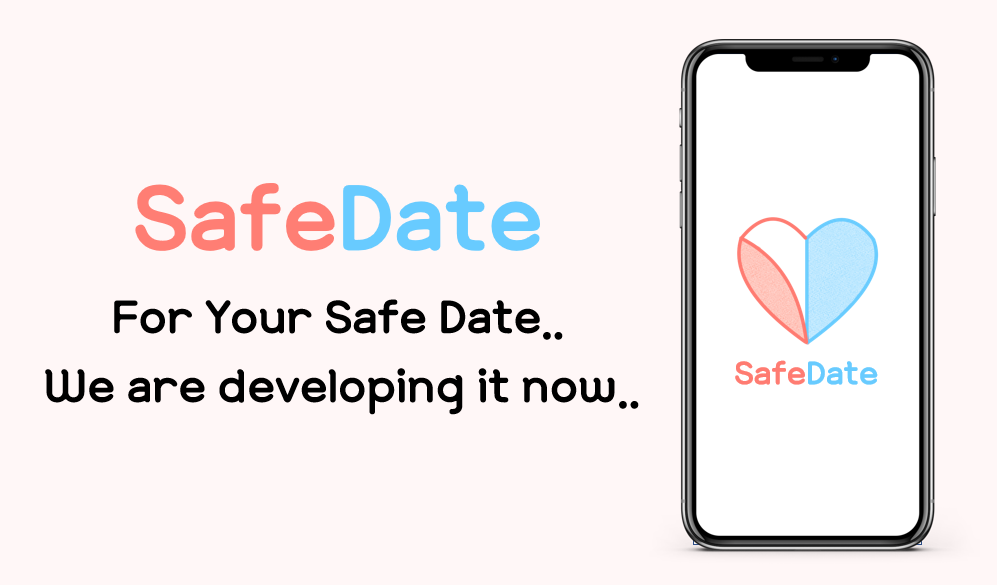
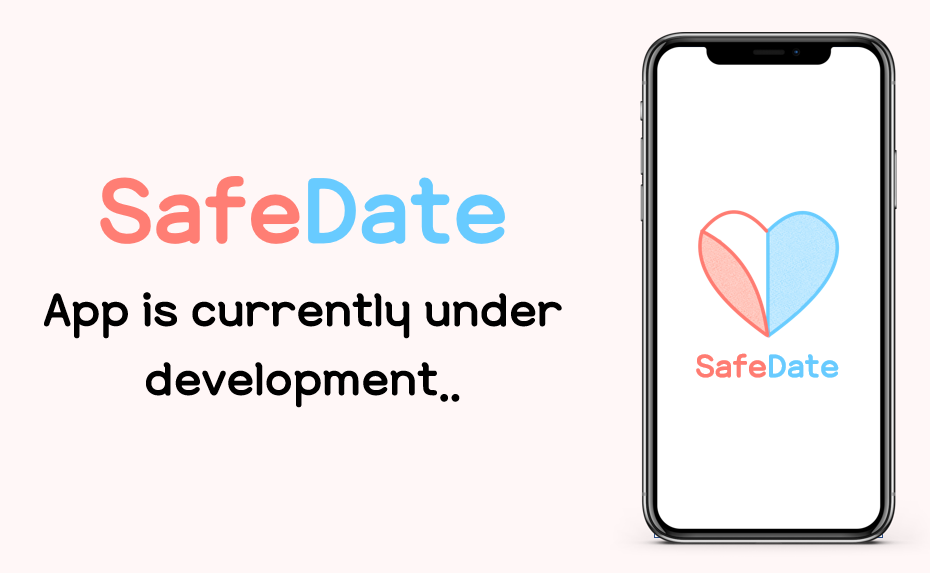
change some files to include the developing

Changed region(s): [[0.0312, 0.0297, 0.9667, 0.9494], [0.0935, 0.2967, 0.5613, 0.445], [0.0312, 0.5044, 0.5925, 0.5934]]

diff --git a/en/app_developing.html b/en/app_developing.html
@@ -10,7 +10,7 @@
     <link rel='stylesheet' href='grid_style.css'/>
   </head>
   <body>
-    <nav class="navbar navbar-expand-lg navbar-dark bg-dark">
+    <nav class="navbar navbar-expand-lg navbar-dark bg-primary">
         <a class="navbar-brand" href="index.html">SafeDate</a>
         <button class="navbar-toggler" type="button" data-toggle="collapse" data-target="#navbarSupportedContent" aria-controls="navbarSupportedContent" aria-expanded="false" aria-label="Toggle navigation">
             <span class="navbar-toggler-icon"></span>
@@ -20,68 +20,68 @@
             <ul class="navbar-nav mr-auto">
                 <li class="nav-item dropdown">
                     <a class="nav-link dropdown-toggle" href="safetips/safetips.html" id="navbarDropdown" role="button" data-toggle="dropdown" aria-haspopup="true" aria-expanded="false">
-                        안전한 데이트를 위한 팁
+                        Tips for a Safe Date
                     </a>
                     <div class="dropdown-menu" aria-labelledby="navbarDropdown">
-                        <a class="dropdown-item" href="safetips/dangerousmen.html">위험한 남자의 13가지 특징</a>
+                        <a class="dropdown-item" href="safetips/dangerousmen.html">13 Features of Dangerous Men</a>
                         <div class="dropdown-divider"></div>
-                        <a class="dropdown-item" href="safetips/datingplaces.html">옳바른 데이트 장소 선정 방법</a>
+                        <a class="dropdown-item" href="safetips/datingplaces.html">How to choose the right place to date</a>
                         <div class="dropdown-divider"></div>
-                        <a class="dropdown-item" href="safetips/eighttipsforsafedate.html">안전한 데이트를 위한 8가지 방법</a>
+                        <a class="dropdown-item" href="safetips/eighttipsforsafedate.html">Eight Ways to Have a Safe Date</a>
                     </div>
                 </li>
                 <li class="nav-item dropdown">
                     <a class="nav-link dropdown-toggle" href="indanger/sevenways.html" id="navbarDropdown" role="button" data-toggle="dropdown" aria-haspopup="true" aria-expanded="false">
-                        위험에 처했다면
+                        In Danger
                     </a>
                     <div class="dropdown-menu" aria-labelledby="navbarDropdown">
-                        <a class="dropdown-item" href="indanger/sevenways.html">7가지 대처방법</a>
+                        <a class="dropdown-item" href="indanger/sevenways.html">Seven different ways to survive</a>
                     </div>
                 </li>
                 <li class="nav-item dropdown">
                     <a class="nav-link dropdown-toggle" href="gotharmed/gotharmed.html" id="navbarDropdown" role="button" data-toggle="dropdown" aria-haspopup="true" aria-expanded="false">
-                        (성)폭력을 당했다면
+                        If you've been assaulted (sexually)
                     </a>
                     <div class="dropdown-menu" aria-labelledby="navbarDropdown">
-                        <a class="dropdown-item" href="gotharmed/ninethingstodo.html">그 일이 일어난 뒤 9가지 대처방법</a>
+                        <a class="dropdown-item" href="gotharmed/ninethingstodo.html">Nine ways to deal with it</a>
                         <div class="dropdown-divider"></div>
-                        <a class="dropdown-item" href="gotharmed/mostimportant.html">무엇보다도 가장 중요한 것</a>
+                        <a class="dropdown-item" href="gotharmed/mostimportant.html">Th most important thing</a>
                     </div>
                 </li>
                 <li class="nav-item dropdown">
                     <a class="nav-link dropdown-toggle" href="toattackers/toattackers.html" id="navbarDropdown" role="button" data-toggle="dropdown" aria-haspopup="true" aria-expanded="false">
-                        후유증들
+                        Aftereffects
                     </a>
                     <div class="dropdown-menu" aria-labelledby="navbarDropdown">
-                        <a class="dropdown-item" href="toattackers/self-esteem-effect.html">성폭력이 자존감에 어떤 영향을 미치는가</a>
-                        <a class="dropdown-item" href="toattackers/emotion-effect.html">성폭력이 감정에 어떤 영향을 주는가</a>
-                        <a class="dropdown-item" href="toattackers/body-effect.html">성폭력이 몸에 어떤 영향을 주는가</a>
-                        <a class="dropdown-item" href="toattackers/friendship-effect.html">성폭력이 친밀성에 어떤 영향을 주는가</a>
-                        <a class="dropdown-item" href="toattackers/parent-effect.html">성폭력이 부모역할에 어떤 영향을 주는가</a>
-                        <a class="dropdown-item" href="toattackers/sex-effect.html">성폭력이 성에 어떤 영향을 주는가</a>
-                        <a class="dropdown-item" href="toattackers/familyrelationship-effect.html">성폭력이 가족관계에 어떤 영향을 주는가</a>
+                        <a class="dropdown-item" href="toattackers/self-esteem-effect.html">How Sexual Violence Affects One's Self Esteem</a>
+                        <a class="dropdown-item" href="toattackers/emotion-effect.html">How Sexual Violence Affects Emotions</a>
+                        <a class="dropdown-item" href="toattackers/body-effect.html">How Sexual Violence Affects the Body</a>
+                        <a class="dropdown-item" href="toattackers/friendship-effect.html">How Sexual Violence Affects Intimacy</a>
+                        <a class="dropdown-item" href="toattackers/parent-effect.html">How Sexual Violence Affects Parental Role</a>
+                        <a class="dropdown-item" href="toattackers/sex-effect.html">How Sexual Violence Affects Sex</a>
+                        <a class="dropdown-item" href="toattackers/familyrelationship-effect.html">How Sexual Violence Affects Family Relations</a>
                         <div class="dropdown-divider"></div>
-                        <a class="dropdown-item" href="toattackers/personal-message.html">개인적인 메세지</a>
+                        <a class="dropdown-item" href="toattackers/personal-message.html">Personal Message</a>
                     </div>
                 </li>
                 <li class="nav-item dropdown">
                     <a class="nav-link dropdown-toggle" href="forvictims/forvictims.html" id="navbarDropdown" role="button" data-toggle="dropdown" aria-haspopup="true" aria-expanded="false">
-                        피해자들에게
+                        To the victims
                     </a>
                     <div class="dropdown-menu" aria-labelledby="navbarDropdown">
-                        <a class="dropdown-item" href="forvictims/respect-what-you-did.html">살아남기 위해 당신이 해야만 했던 일을 존중하기</a>
-                        <a class="dropdown-item" href="forvictims/self-defense-strategies.html">자기 방어 전략</a>
+                        <a class="dropdown-item" href="forvictims/respect-what-you-did.html">Respect What You had to do Survive</a>
+                        <a class="dropdown-item" href="forvictims/self-defense-strategies.html">Self-defense Strategies</a>
                         <div class="dropdown-divider"></div>
-                        <a class="dropdown-item" href="forvictims/you-can-change.html">당신은 변화할 수 있다</a>
-                        <a class="dropdown-item" href="forvictims/surviving-skills.html">치유를 위한 생존 기술</a>
-                        <a class="dropdown-item" href="forvictims/suicide-thought.html">자살이 생각난다면</a>
+                        <a class="dropdown-item" href="forvictims/you-can-change.html">You can change</a>
+                        <a class="dropdown-item" href="forvictims/surviving-skills.html">Survival Techniques for Healing</a>
+                        <a class="dropdown-item" href="forvictims/suicide-thought.html">If you think of Suicide</a>
                         <div class="dropdown-divider"></div>
-                        <a class="dropdown-item" href="forvictims/personal-message.html">개인적인 메세지</a>
+                        <a class="dropdown-item" href="forvictims/personal-message.html">Perosnal Message</a>
                     </div>
                 </li>
             </ul>
             <form class="form-inline my-2 my-lg-0">
-                <a style="color: white;"  href = "en/index.html"> EN/KOR </a>
+                <a style="color: white;"  href = "../index.html"> EN/KOR </a>
             </form>
         </div>
     </nav>
@@ -91,81 +91,81 @@
     
     <div class = "wrapper_text">
         <div class = "editor">
-            <h3>아직 SafeDate 어플은 개발중에 있어요.</h3><br>
+            <h3>SafeDate app is currently under development.</h3><br>
             <p>
-                <h4>SafeDate는 여러분의 후원을 통해 개발될 수 있어요.</h4><br>
-                현재 개발자가 열심히 만들고 있습니다.<br><br>
-                향후 개발 일정은 다음과 같습니다.<br><br>
-                <h4>개발 일정:</h4>
-                - 2021년 10월 24일까지: 웹페이지 개선 (한국어, 영어) <br><br>
-                - 2021년 12월 24일까지: 안드로이드 앱 개발 (한국어, 영어) <br><br>
-                - 2022년 2월 24일까지: iOS 앱 개발 (한국어, 영어) <br><br>
-                - 2022년 3월 1일까지: 앱 배포 및 베타 테스트 (한국어, 영어) <br><br>
-                - 2022년 3월 8일 - 세계 여성의 날: 세이프 데이트 앱 <strong>구글플레이스토어</strong>와 <strong>앱스토어</strong>에 출시<br><br>
-                - 2022년 8월말까지: 세계 다양한 언어(스페인어, 프랑스어, 일본어, 중국어 등)로 출시 <br><br>
-                전세계가 범죄로부터 안전해지는 날이 올 수 있게 후원해주시겠어요? :) <br><br>
-                함께라면 불가능한 일은 없어요! <br><br>
-                - 세이프데이트 올림 <br><br>
+                <h4>SafeDate can be developed through your sponsorship.</h4><br>
+                Currently, developers are working hard on it.<br><br>
+                The future development schedule is as follows.<br><br>
+                <h4>Development schedule:</h4><br>
+                - Until October 24, 2021: Web page improvement (English, Korean) <br><br>
+                - Until December 24, 2021: Android App Development (English, Korean) <br><br>
+                - Until February 24, 2022: iOS App Development (English, Korean) <br><br>
+                - Until March 1, 2022: App distribution and beta test (English, Korean) <br><br>
+                - March 8, 2022 - World Women's Day: Safe Date App <strong>Released on Google Play Store</strong> and <strong> App Store</strong><br><br>
+                - Until the end of August 2022: Launched in various languages around the world (Spanish, French, Japanese, Chinese, etc.) <br><br>
+                Can you sponsor us to make the world to be safe from crimes? :) <br><br>
+                Nothing is impossible when we're together! <br><br>
+                - From SafeDate <br><br>
             </p>
                 
         </div>
     </div>
-
+   
     <div class = "wrapper">
         <div class = "grid_container">
             <div id="SafeTips">
-                <p>안전한 데이트 팁</p>
+                <p>Safe Date Tips</p>
             </div>
             <div id="SafeTipsText">
                 <a href = "safetips/safetips.html">
-                    위험한 남자들의 13가지 특징들 <br>
-                    옳바른 데이트 장소 선정 방법 <br>
-                    안전한 데이트를 위한 8가지 방법 <br>
-                    ..더 보기
+                    13 Features of Dangerous Men,
+                    How to Choose the Right Date Place,
+                    8 Ways to Have a Safe Date <br>
+                    ..To see more details
                 </a>
            </div>
            <div id= "InDangerText">
                <a href = "indanger/sevenways.html">
-                    7가지 대처 방법<br>
-                    ..더 보기
+                    7 Ways to Deal with it <br>
+                    ..To see more details
                 </a>
            </div>
            <div id = "InDanger">
-               <p>지금 데이트에서 본인이 위험하다면</p>
+               <p>If you're in danger on a date now</p>
            </div>
            <div id = "GotHarmed">
-               <p>데이트에서 어떤 식으로든 폭력을 당했다면</p>
+               <p>If you were assaulted in any way on a date</p>
            </div>
            <div id = "GotHarmedText">
                <a href = "gotharmed/gotharmed.html">
-                    그 일이 일어난 뒤 9가지 대처 방법<br>
-                    무엇보다도 가장 중요한 것<br>
-                    ..더 보기
+                    Nine Ways to Deal After That Happened.
+                    The most important thing above all.
+                    ..To see more details
                 </a>
            </div>
            <div id = "ToAttackers">
                <p>
-                   가해자들에게:<br> 
-                    "너희가 도대체 무슨 짓을 했는지 아니?"
+                   To perpetrators: <br> 
+                    "Do you know what the hell you've done?"
                </p>
            </div>
            <div id = "ToAttackersText">
                 <a href = "toattackers/toattackers.html">
-                    데이트 (성)폭력의 후유증들 <br>
-                    ..더 보기
+                    The aftermath of dating violence <br>
+                    ..To see more details
 
                 </a>
            </div>
            <div id = "ForVictims">
                <p>
-                   피해자들에게:<br>
-                   후유증 치유 방법
+                   Dear Victims: <br>
+                   How to heal the aftereffects
                </p>
            </div>
            <div id = "ForVictimsText">
                <a href = "forvictims/forvictims.html">
-                    살아남기 위해 당신이 해야만 했던 일들, 자기 방어 전략, 치유 방법.. <br>
-                    ..더 보기
+                    What you had to do to survive, self-defense strategies, healing methods... <br>
+                    ..To see more details
                 </a>
            </div>
            <div id = "LastPage">
@@ -173,7 +173,7 @@
            </div>
            <div id = "LastPageText">
                <a href = "https://www.linkedin.com/in/taeyang-kim/">
-                개발자: 김태양 <br>
+                Developer: Kim Tae-yang <br>
                 LinkedIn: Taeyang, Kim <br>
                 GitHub: brightlightkim   
             </a>
@@ -181,9 +181,9 @@
 
         </div>    
     </div>
-
-    <div id = "lowerPadding"></div>
     
+    <div id = "lowerPadding"></div>
+
     <div id = "footer">
         <a href="https://github.com/brightlightkim/stopabuse">GitHub Link</a>
     </div>

diff --git a/en/index.html b/en/index.html
@@ -86,7 +86,7 @@
         </div>
     </nav>
     <div class= "imageFile">
-        <img src = "images/safedate-korean.PNG">
+        <a href="./app_developing.html"><img src = "images/safedate-korean.PNG"></a>
     </div>
     <div class="imageFile_normal">
         <img src = "images/app_feature1.PNG">

diff --git a/index.html b/index.html
@@ -86,7 +86,7 @@
         </div>
     </nav>
     <div class= "imageFile">
-        <img src = "images/safedate-korean.PNG">
+        <a href="./app_developing.html"><img src = "images/safedate-korean.PNG"></a>
     </div>
     <div class="imageFile_normal">
         <img src = "images/app_feature1.PNG">
